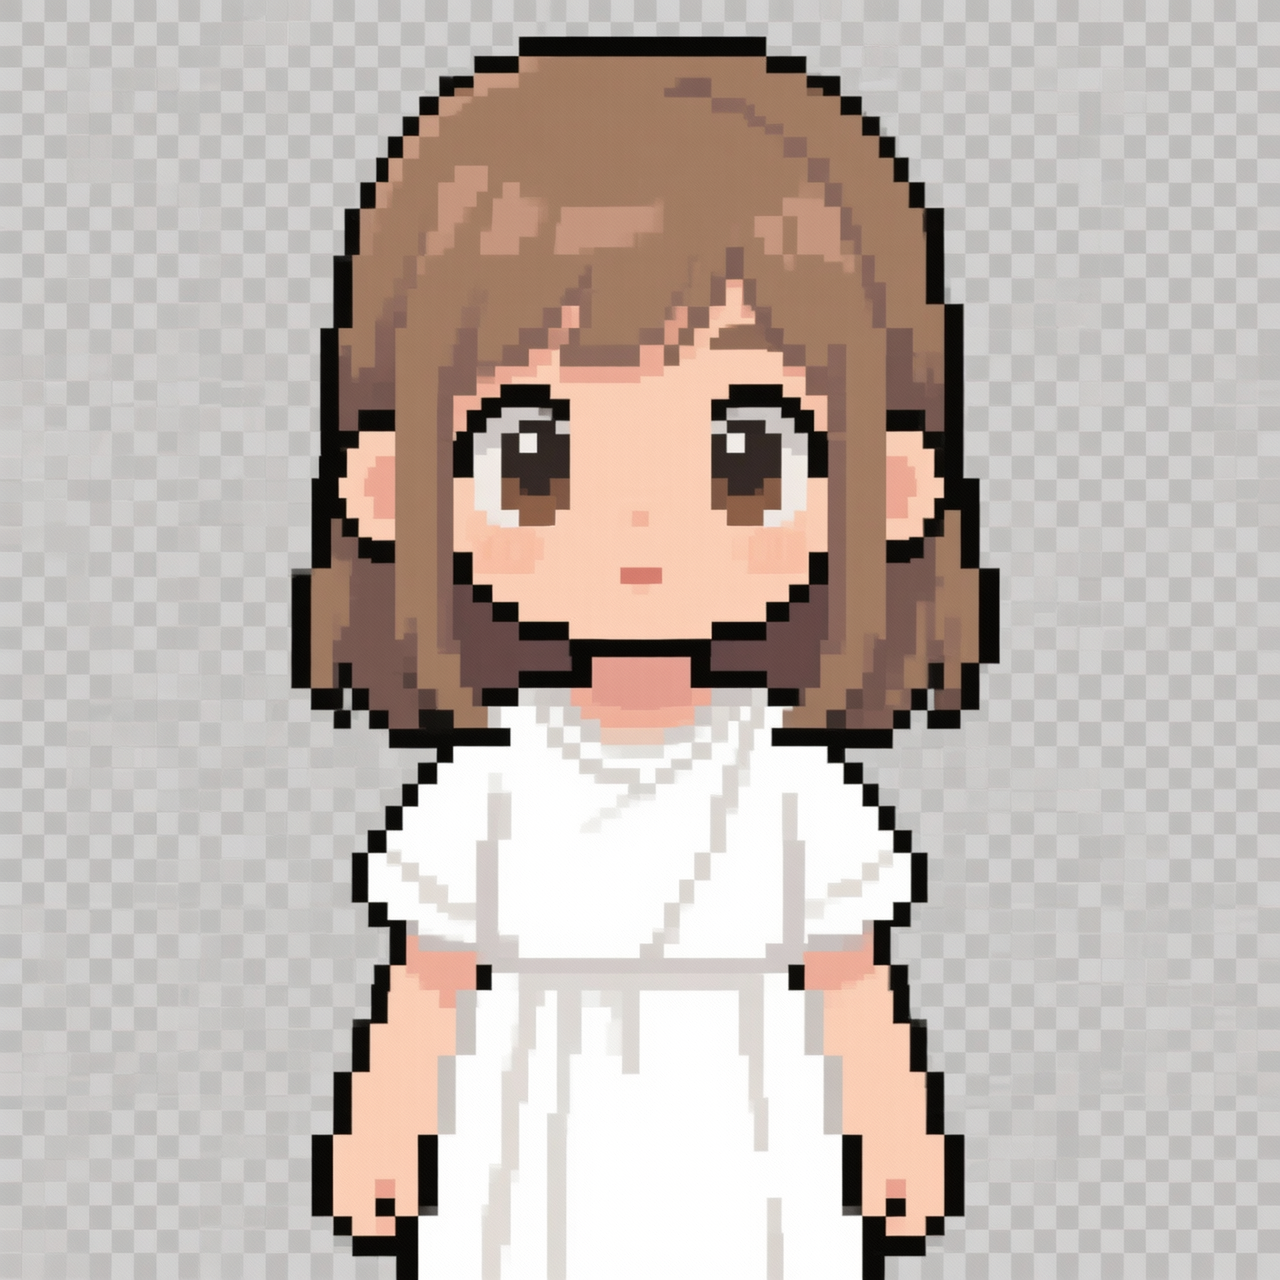
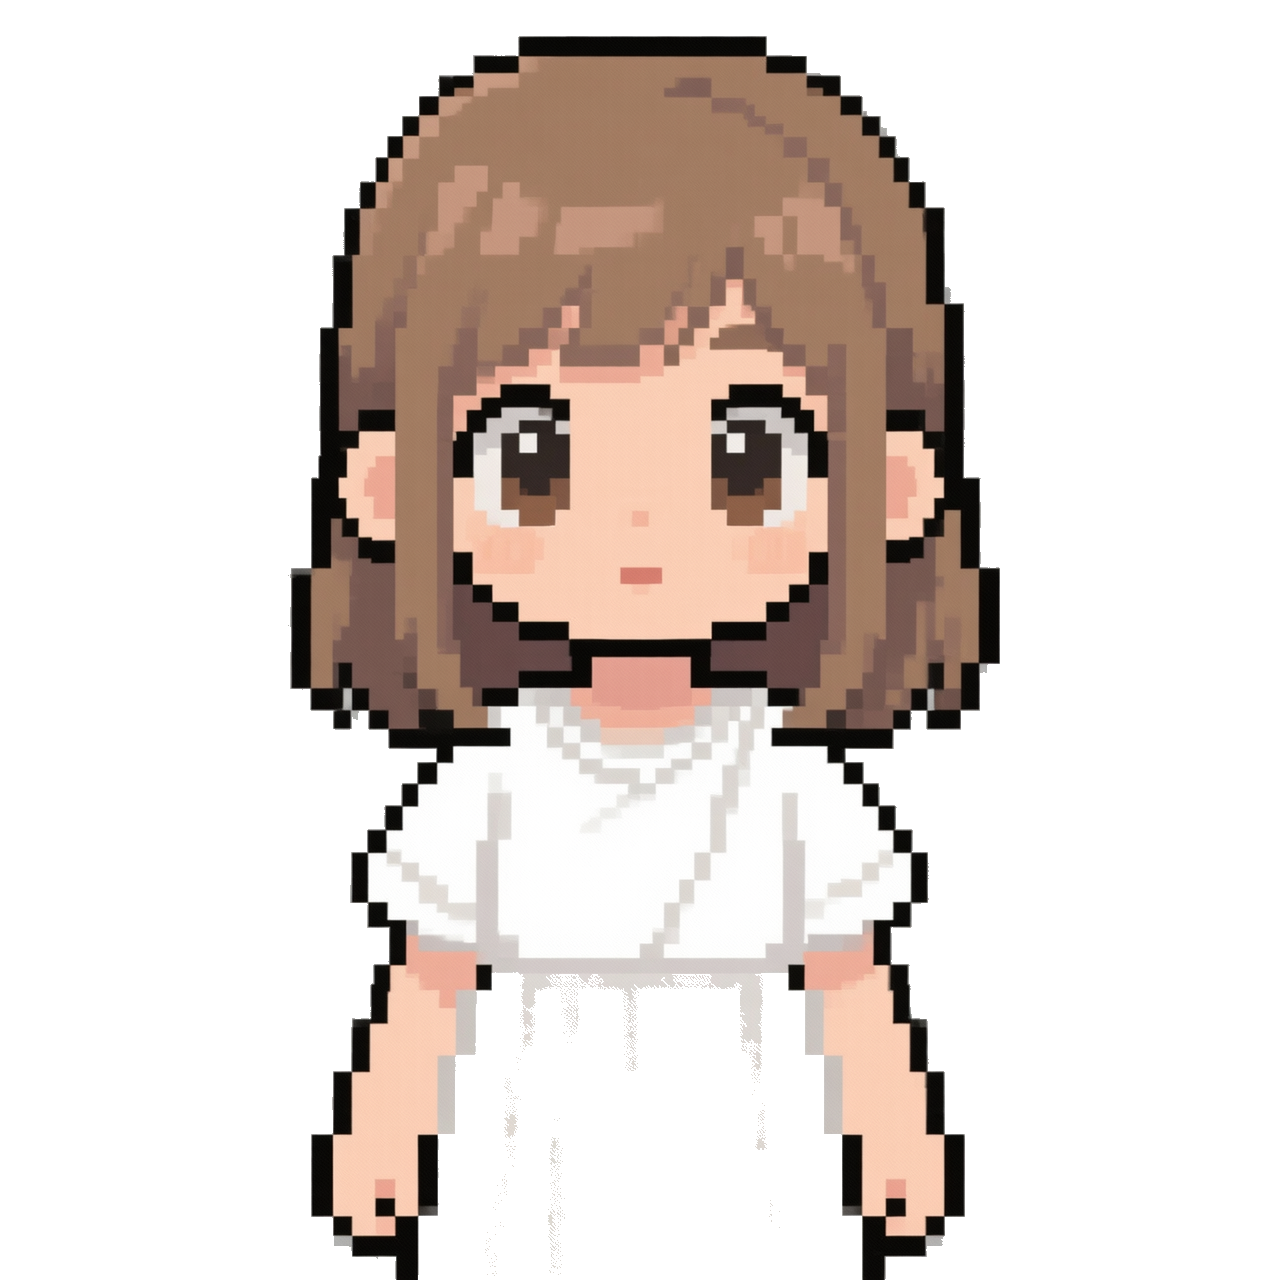
fix(personagens): tamanho correto + animação pernas + fundo transparente
- corrige drawBody usar W*PIX/H*PIX (estava 16x24 vs 60x91, personagem minúsculo)
- aplica bodyScale ancorado nos pés (1.35 adulto, 1.10 criança, 0.95 bebê)
- remove sombra flutuante premium, corrige linha walk (7x2 vs 4x1), adiciona bob sutil
- drawCharacter anima pernas (4 frames) quando moving, idle parado
- converte todos 17 bodies white bg -> transparente via flood fill

diff --git a/client/js/art/characters.js b/client/js/art/characters.js
@@ -33,9 +33,8 @@ export function drawPremiumNpc(ctx, npcId, { x, y, dir="down", moving=false, tim
   let col = 0, row = 0;
   // animação premium: médico tem 7 cols ×2 rows (14 poses), bombeiro 4×1 walk
   if(moving){
-    col = Math.floor(time * 6) % cfg.cols;
-    // médico quando anda usa linha 0, bombeiro só tem 1 linha
-    row = 0;
+    col = Math.floor(time * 7) % cfg.cols;
+    row = (cfg.rows > 1) ? 1 : 0;
   } else {
     // idle sutil: médico alterna entre frente parado (0) e piscar (3) a cada 2s, bombeiro fica parado
     if(cfg.cols >= 7){
@@ -49,17 +48,10 @@ export function drawPremiumNpc(ctx, npcId, { x, y, dir="down", moving=false, tim
   const fw = img.naturalWidth / cfg.cols;
   const fh = img.naturalHeight / cfg.rows;
   const sx = col * fw, sy = row * fh;
-  const dw = W * PIX * 1.55, dh = H * PIX * 1.55;
-  // sombra bem rente aos pés, sem flutuar (user reclamou holograma)
-  const shadowAlpha = moving ? 0.34 : 0.38;
-  const shadowRx = dw*0.32, shadowRy = 5;
-  // pés alinhados no chão: y é topo do sprite, py é chão, então bottom = y + dh deve = py + 6
-  // como chamamos com y = py - 40, compensamos para bottom ficar no chão
-  const yFix = y + (dh - H*PIX*1.2);
-  // sombra removida a pedido do usuário - fica feia
-  // shadow(ctx, x + dw/2, yFix + dh - 10, shadowRx, shadowRy, shadowAlpha);
-  const bob = 0; // estático, sem levantar mão
-  // override y para alinhar pés
+  const dw = W * PIX * 1.35, dh = H * PIX * 1.35;
+  // sem sombra - removido holograma, pés pisam no chão
+  const yFix = y + (dh - H*PIX*1.18);
+  const bob = moving ? Math.sin(time*8)*1.2 : 0;
   y = yFix;
   ctx.save();
   ctx.imageSmoothingEnabled = false;
@@ -330,26 +322,29 @@ function drawBody(g, spec, dir, frame, act, toolPhase = 0) {
   if(spec.bodyAsset){
     const bImg = loadBodyAsset(spec.bodyAsset);
     if(bImg && bImg.complete && bImg.naturalWidth>0){
-      // body PNG é 1024, escala para W x H (16x24) cobrindo todo o canvas base
-      g.clearRect(0,0,W,H);
-      g.drawImage(bImg, 0, 0, bImg.naturalWidth, bImg.naturalHeight, 0, 0, W, H);
+      const s = spec.bodyScale || 1;
+      const sw = W*PIX*s, sh = H*PIX*s;
+      const sx0 = (W*PIX - sw)/2, sy0 = (H*PIX - sh);
+      // clear e desenha cobrindo canvas com escala e ancorado nos pés
+      g.clearRect(0,0,W*PIX,H*PIX);
+      g.drawImage(bImg, 0, 0, bImg.naturalWidth, bImg.naturalHeight, sx0, sy0, sw, sh);
     }
   }
   if(spec.shirtAsset){
     const lImg = loadLayerAsset(spec.shirtAsset);
-    if(lImg && lImg.complete && lImg.naturalWidth>0){ g.drawImage(lImg, 0, 0, lImg.naturalWidth, lImg.naturalHeight, 0, 6, W, H*0.6); }
+    if(lImg && lImg.complete && lImg.naturalWidth>0){ g.drawImage(lImg, 0, 0, lImg.naturalWidth, lImg.naturalHeight, 0, 6*PIX, W*PIX, H*PIX*0.6); }
   }
   if(spec.pantsAsset){
     const pImg = loadLayerAsset(spec.pantsAsset);
-    if(pImg && pImg.complete && pImg.naturalWidth>0){ g.drawImage(pImg, 0, 0, pImg.naturalWidth, pImg.naturalHeight, 0, 13, W, H*0.45); }
+    if(pImg && pImg.complete && pImg.naturalWidth>0){ g.drawImage(pImg, 0, 0, pImg.naturalWidth, pImg.naturalHeight, 0, 13*PIX, W*PIX, H*PIX*0.45); }
   }
   if(spec.hairAsset){
     const hImg = loadLayerAsset(spec.hairAsset);
-    if(hImg && hImg.complete && hImg.naturalWidth>0){ g.drawImage(hImg, 0, 0, hImg.naturalWidth, hImg.naturalHeight, 0, 0, W, H*0.5); }
+    if(hImg && hImg.complete && hImg.naturalWidth>0){ g.drawImage(hImg, 0, 0, hImg.naturalWidth, hImg.naturalHeight, 0, 0, W*PIX, H*PIX*0.5); }
   }
   if(spec.hatAsset){
     const haImg = loadLayerAsset(spec.hatAsset);
-    if(haImg && haImg.complete && haImg.naturalWidth>0){ g.drawImage(haImg, 0, 0, haImg.naturalWidth, haImg.naturalHeight, 0, 0, W, H*0.5); }
+    if(haImg && haImg.complete && haImg.naturalWidth>0){ g.drawImage(haImg, 0, 0, haImg.naturalWidth, haImg.naturalHeight, 0, 0, W*PIX, H*PIX*0.5); }
   }
   // padrão da camisa — agora realmente aparece o design escolhido
   const design = spec.shirtDesign || "solid";
@@ -870,13 +865,12 @@ export const NPC_SPECS = {
 export function drawCharacter(ctx, atlas, dir, { x, y, moving, action, time = 0, alpha = 1 }) {
   const d = atlas ? (atlas[dir] ? dir : "down") : "down";
   const frames = atlas[d] || atlas.down;
-  // usuário pediu SEM animação levantando mão, imagem parada natural, SEM sombra
-  const f = 0; // sempre frame parado
-  const img = frames[f];
+  const f = moving ? (Math.floor(time * 8) % 4) : 0;
+  const img = frames[f] || frames[0];
+  const bob = moving ? Math.sin(time * 10) * 0.7 : 0;
   ctx.save();
   ctx.globalAlpha = alpha;
-  // sombra removida a pedido: ficava feia
-  ctx.drawImage(img, Math.round(x), Math.round(y));
+  ctx.drawImage(img, Math.round(x), Math.round(y + bob));
   ctx.restore();
 }
 

diff --git a/shared/constants.js b/shared/constants.js
@@ -439,23 +439,23 @@ export const HAIR_STYLE_OPTIONS = [
   { id: "braid_long", name: "Trança longa", gender: "fem" },
 ];
 export const BODY_OPTIONS = [
-  { id: "baby_generic", name: "Bebê genérico", age: "baby", gender: "uni", asset: "body_baby_generic.png", scale: 0.72 },
-  { id: "child_masc_A", name: "Menino criança A", age: "child", gender: "masc", asset: "body_child_masc_A.png", scale: 0.82 },
-  { id: "child_masc_B", name: "Menino criança B", age: "child", gender: "masc", asset: "body_child_masc_B.png", scale: 0.82 },
-  { id: "child_fem_A", name: "Menina criança A", age: "child", gender: "fem", asset: "body_child_fem_A.png", scale: 0.81 },
-  { id: "child_fem_B", name: "Menina criança B", age: "child", gender: "fem", asset: "body_child_fem_B.png", scale: 0.81 },
-  { id: "teen_masc_A", name: "Adolescente menino A", age: "teen", gender: "masc", asset: "body_teen_masc_A.png", scale: 0.90 },
-  { id: "teen_masc_B", name: "Adolescente menino B", age: "teen", gender: "masc", asset: "body_teen_masc_B.png", scale: 0.90 },
-  { id: "teen_fem_A", name: "Adolescente menina A", age: "teen", gender: "fem", asset: "body_teen_fem_A.png", scale: 0.89 },
-  { id: "teen_fem_B", name: "Adolescente menina B", age: "teen", gender: "fem", asset: "body_teen_fem_B.png", scale: 0.89 },
-  { id: "adult_masc_A", name: "Adulto homem A", age: "adult", gender: "masc", asset: "body_adult_masc_A.png", scale: 1.00 },
-  { id: "adult_masc_B", name: "Adulto homem B", age: "adult", gender: "masc", asset: "body_adult_masc_B.png", scale: 1.00 },
-  { id: "adult_fem_A", name: "Adulto mulher A", age: "adult", gender: "fem", asset: "body_adult_fem_A.png", scale: 0.98 },
-  { id: "adult_fem_B", name: "Adulto mulher B", age: "adult", gender: "fem", asset: "body_adult_fem_B.png", scale: 0.98 },
-  { id: "elder_masc_A", name: "Velhinho", age: "elder", gender: "masc", asset: "body_elder_masc_A.png", scale: 0.97 },
-  { id: "elder_masc_B", name: "Velhinho B", age: "elder", gender: "masc", asset: "body_elder_masc_B.png", scale: 0.97 },
-  { id: "elder_fem_A", name: "Velhinha", age: "elder", gender: "fem", asset: "body_elder_fem_A.png", scale: 0.95 },
-  { id: "elder_fem_B", name: "Velhinha B", age: "elder", gender: "fem", asset: "body_elder_fem_B.png", scale: 0.95 },
+  { id: "baby_generic", name: "Bebê genérico", age: "baby", gender: "uni", asset: "body_baby_generic.png", scale: 0.95 },
+  { id: "child_masc_A", name: "Menino criança A", age: "child", gender: "masc", asset: "body_child_masc_A.png", scale: 1.10 },
+  { id: "child_masc_B", name: "Menino criança B", age: "child", gender: "masc", asset: "body_child_masc_B.png", scale: 1.10 },
+  { id: "child_fem_A", name: "Menina criança A", age: "child", gender: "fem", asset: "body_child_fem_A.png", scale: 1.08 },
+  { id: "child_fem_B", name: "Menina criança B", age: "child", gender: "fem", asset: "body_child_fem_B.png", scale: 1.08 },
+  { id: "teen_masc_A", name: "Adolescente menino A", age: "teen", gender: "masc", asset: "body_teen_masc_A.png", scale: 1.20 },
+  { id: "teen_masc_B", name: "Adolescente menino B", age: "teen", gender: "masc", asset: "body_teen_masc_B.png", scale: 1.20 },
+  { id: "teen_fem_A", name: "Adolescente menina A", age: "teen", gender: "fem", asset: "body_teen_fem_A.png", scale: 1.18 },
+  { id: "teen_fem_B", name: "Adolescente menina B", age: "teen", gender: "fem", asset: "body_teen_fem_B.png", scale: 1.18 },
+  { id: "adult_masc_A", name: "Adulto homem A", age: "adult", gender: "masc", asset: "body_adult_masc_A.png", scale: 1.35 },
+  { id: "adult_masc_B", name: "Adulto homem B", age: "adult", gender: "masc", asset: "body_adult_masc_B.png", scale: 1.35 },
+  { id: "adult_fem_A", name: "Adulto mulher A", age: "adult", gender: "fem", asset: "body_adult_fem_A.png", scale: 1.30 },
+  { id: "adult_fem_B", name: "Adulto mulher B", age: "adult", gender: "fem", asset: "body_adult_fem_B.png", scale: 1.30 },
+  { id: "elder_masc_A", name: "Velhinho", age: "elder", gender: "masc", asset: "body_elder_masc_A.png", scale: 1.25 },
+  { id: "elder_masc_B", name: "Velhinho B", age: "elder", gender: "masc", asset: "body_elder_masc_B.png", scale: 1.25 },
+  { id: "elder_fem_A", name: "Velhinha", age: "elder", gender: "fem", asset: "body_elder_fem_A.png", scale: 1.22 },
+  { id: "elder_fem_B", name: "Velhinha B", age: "elder", gender: "fem", asset: "body_elder_fem_B.png", scale: 1.22 },
 ];
 export const GENDER_OPTIONS = [
   { id: "fem", name: "Feminino" },
